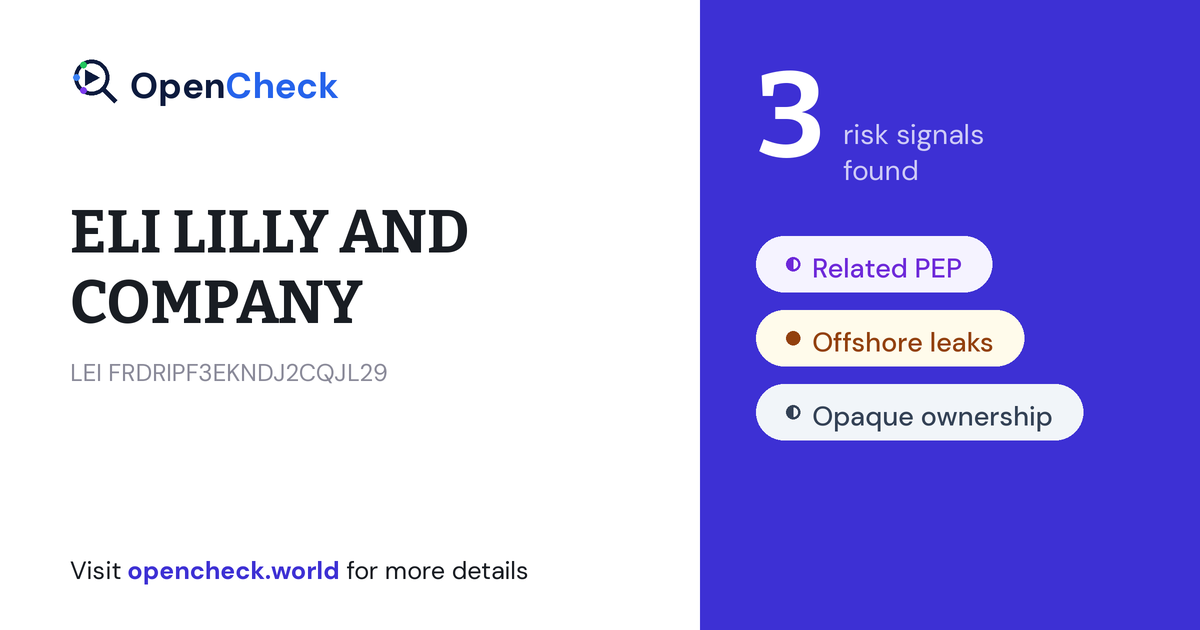
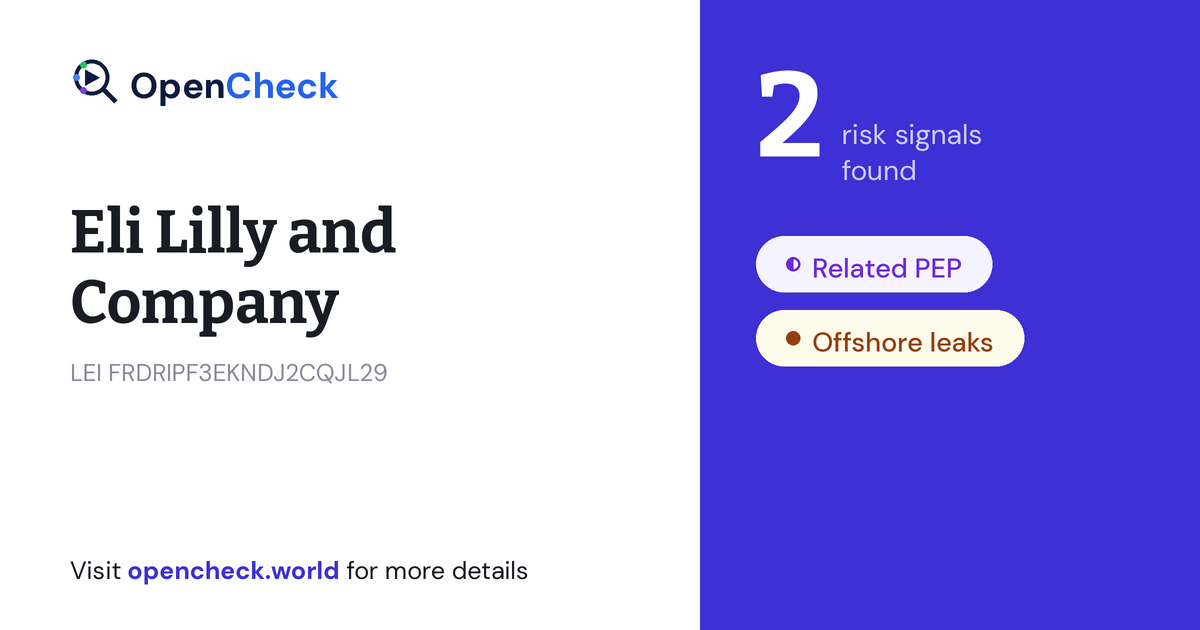
Regenerate homepage share-card example for the narrowed opaque chip
Eli Lilly's OPAQUE_OWNERSHIP signal becomes the GLEIF_REPORTING_EXCEPTION
context signal, so the static showcase PNG and its alt text drop from
"3 risk signals" (related PEP, offshore leaks, opaque ownership) to
"2 risk signals". Rendered with og_image.render_share_card and the full
post-change signal list including the kind="context" entry, so the
generator's own filter is exercised — three in, "2 risk signals" out.

Verify against the production /?lei=FRDRIPF3EKNDJ2CQJL29 page after the
backend deploy, per the hardcoded-engine-claims checklist.

Claude-Session: https://claude.ai/code/session_011Lmj3LqEqCysrdron59jJq

Changed region(s): [[0.0925, 0.3016, 0.4008, 0.5429], [0.6167, 0.6032, 0.925, 0.7238], [0.6167, 0.1508, 0.8325, 0.3016]]

diff --git a/frontend/src/App.tsx b/frontend/src/App.tsx
@@ -3048,7 +3048,7 @@ function ShareCardShowcase() {
           src="/share-card-example.png"
           width={1200}
           height={630}
-          alt="Example shareable summary card for Eli Lilly and Company showing 3 risk signals, all three named: related PEP, offshore leaks, and opaque ownership, with a prompt to visit opencheck.world for details"
+          alt="Example shareable summary card for Eli Lilly and Company showing 2 risk signals, both named: related PEP and offshore leaks, with a prompt to visit opencheck.world for details"
           className="w-full max-w-[560px] h-auto rounded-oo border border-oo-rule shadow-oo-card"
           loading="lazy"
         />
